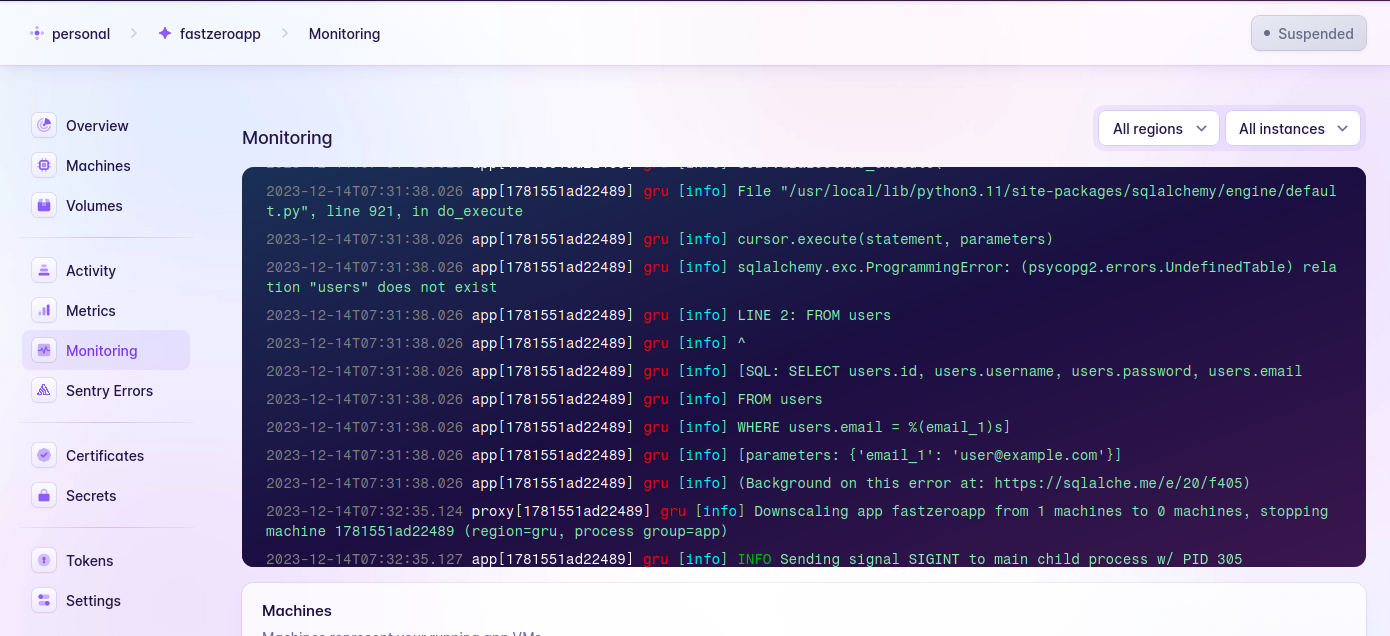
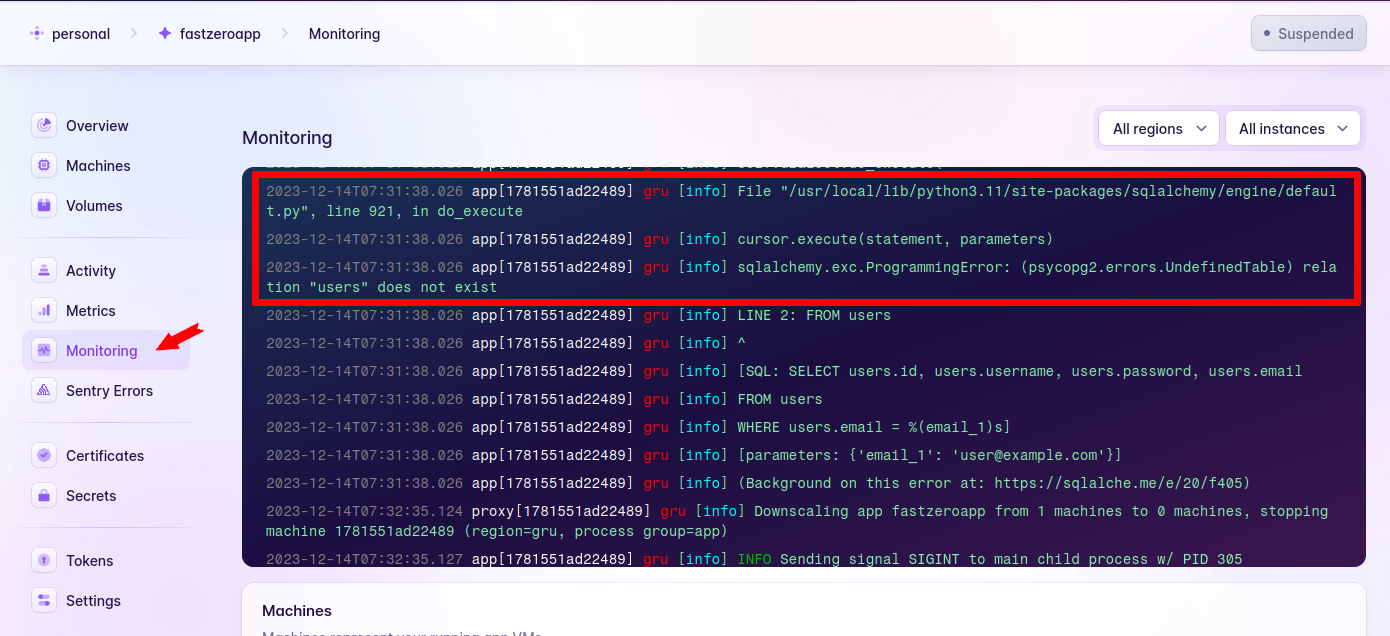
[WIP] - Atualização da aula 11
related #58

Changed region(s): [[0.1547, 0.2689, 0.9899, 0.5079], [0.1237, 0.5079, 0.1547, 0.5377], [0.0928, 0.5377, 0.1237, 0.5676]]

diff --git a/aulas/11.md b/aulas/11.md
@@ -118,12 +118,12 @@ Nesse momento faremos alguns ajustes em nossa configuração:
 1. Seção `Basics`: adicionaremos o nome da nossa aplicação no Fly. (Usarei `fastzeroapp`)
 2. Seção `Memory & CPU`: alteraremos o campo `VM Memory` para 256MB
 3. Seção `Database`:
-    - alteraremos o campo `Postgres` para `Fly Posgres`
+    - alteraremos o campo `Postgres` para `Fly Postgres`
 	- criaremos um nome para o nosso serviço de banco de dados. (Usarei `fastzerodb`)
 	- no campo `Configuration` alteraremos para `Development - Single node, 1x shared CPU, 256MB RAM, 1GB disk`
 4. Por fim, clicamos em `Confirm Settings`!
 
-Após esse ajuste, você pode fechar a janela do browser e voltar ao terminal, pois a parte interativa do `launch` ainda estará em execução. Como a resposta a seguir é bastante grande, colarei `...` para pular algumas linhas que não nos interessam nesse momento:
+Após esse ajuste, você pode fechar a janela do browser e voltar ao terminal, pois a parte interativa do `launch` ainda estará em execução. Como a resposta a seguir é bastante grande, colocarei `...` para pular algumas linhas que não nos interessam nesse momento:
 
 ```shell title="$ Continuação do comando `launch`" hl_lines="2 16 22"
 Created app 'fastzeroapp' in organization 'personal'
@@ -227,7 +227,7 @@ Para efetuarmos o deploy da aplicação, podemos usar o comando `deploy` do`flyc
 1. Copiar seus arquivos e fazer o build do docker na nuvem;
 2. Você pode fazer o build localmente e subir apenas o container para um [repositório](https://docs.docker.com/docker-hub/repos/){:target="_blank"} disponível no Fly.
 
-Optaremos por fazer o build localmente para que não sejam alocados duas máquinas em nossa aplicação[^1]. Para executar o build localmente usamos a flag `--local-only`:
+Optaremos por fazer o build localmente para não serem alocadas duas máquinas em nossa aplicação[^1]. Para executar o build localmente usamos a flag `--local-only`:
 
 [^1]: No plano gratuito existe uma limitação de máquinas disponíveis por aplicação. Quando usamos mais de uma máquina, temos que ter um plano pago, por esse motivo, vamos fazer o build localmente.
 
@@ -235,10 +235,9 @@ Optaremos por fazer o build localmente para que não sejam alocados duas máquin
 fly deploy --local-only
 ```
 
-> [RPA]
+Como a resposta do comando `deploy` é bastante grande, substituirei o texto por `...` para pular algumas linhas que não nos interessam nesse momento:
 
-```
-fly deploy --local-only
+```bash title="$ Resultado do comando `deploy`" hl_lines="22 28 31"
 ==> Verifying app config
 Validating /home/dunossauro/ci-example-fastapi/fly.toml
 Platform: machines
@@ -272,16 +271,33 @@ Updating existing machines in 'fastzeroapp' with rolling strategy
 Visit your newly deployed app at https://fastzeroapp.fly.dev/
 ```
 
+As primeiras linhas da resposta estão relacionadas ao build do docker e a publicação no repositório de imagens docker do Fly.
 
-Resultado:
+Na sequencia, temos algumas informações importantes a respeito do deploy da nossa aplicação. Como a URL de monitoramento (`https://fly.io/apps/<nome-do-app>/monitoring`), o aviso de que o deploy foi efetuado com sucesso (`Machine 1781551ad22489 [app] update succeeded`) e por fim, a URL de acesso a nossa aplicação (`https://<nome-do-app>.fly.dev/`).
+
+
+??? failure "quando as coisas não dão certo"
+	TODO!
+
+Dessa forma podemos acessar a nossa aplicação acessando a URL fornecida pela última linha de resposta em nosso browser, como `https://fastzeroapp.fly.dev/`:
 
 ![descrição](assets/11_resposta_do_servidor.png){: .center .shadow }
 
+E pronto, nossa aplicação está disponível para acesso! Obtivemos o nosso "Olá mundo". 🚀🚀🚀🚀🚀🚀
 
-![descrição](assets/11_erro_na_aplicação_falta_de_migração.png){: .center .shadow }
+Porém, contudo, entretanto, ainda existe um problema na nossa aplicação no ar. Para ficar evidente, tente acessar o swagger da sua aplicação no ar e registrar um usuário usando o endpoint `/user` com o método POST:
+
+![descrição](assets/11_erro_na_aplicação_falta_de_migração.png){: .center .shadow width="800" }
+
+Você receberá uma mensagem de erro, um erro 500: `Internal Server Error`, por de não efetuarmos a migração no banco de dados de produção. Porém, para ter certeza disso, podemos usar a URL de monitoramento do Fly para ter certeza do erro ocorrido. Acessando: `https://fly.io/apps/<nome-do-app>/monitoring`, podemos visualizar os erros exibidos no console da nossa aplicação:
 
 ![descrição](assets/11_erro_no_monitoramento.png){: .center .shadow }
 
+Podemos ver no console a mensagem: `Relation "users" does not exist`. Que traduzida pode ser lido como `A relação "users" não existe`. O significa que a tabela "users" não foi criada ou não existe no banco de dados.
+
+Desta forma, para que nossa aplicação funcione corretamente precisamos executar as migrações.
+
+> [RPA]
 
 ### Migrations
 
